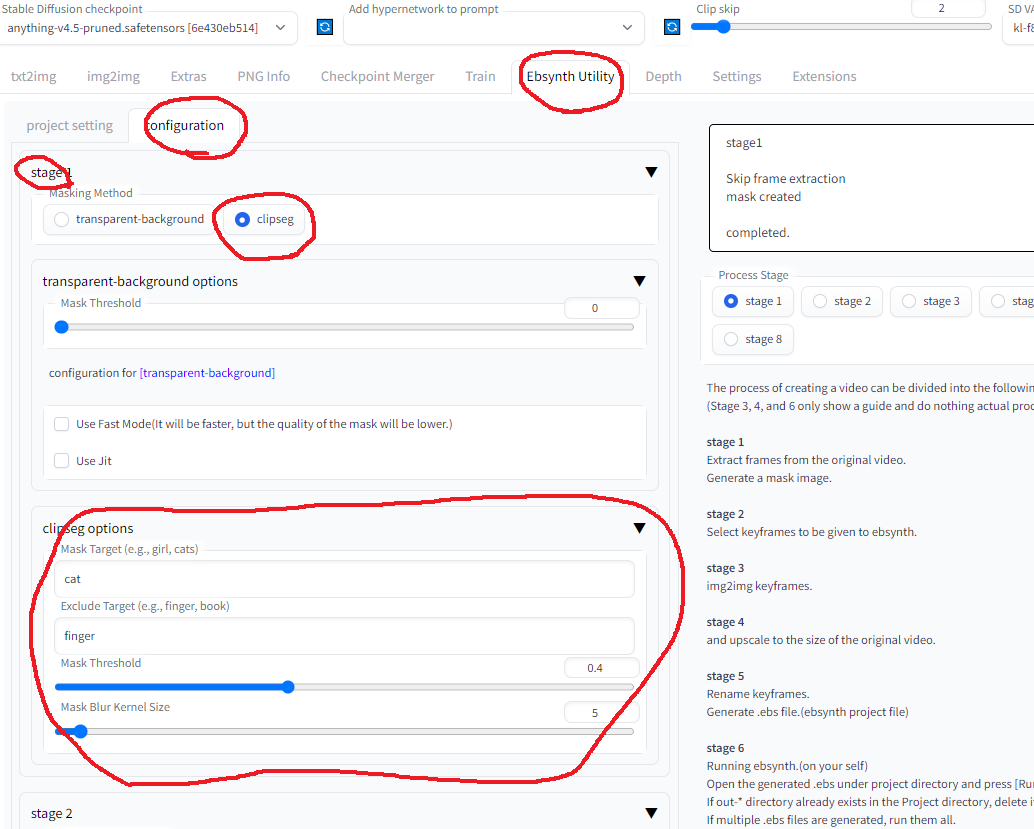
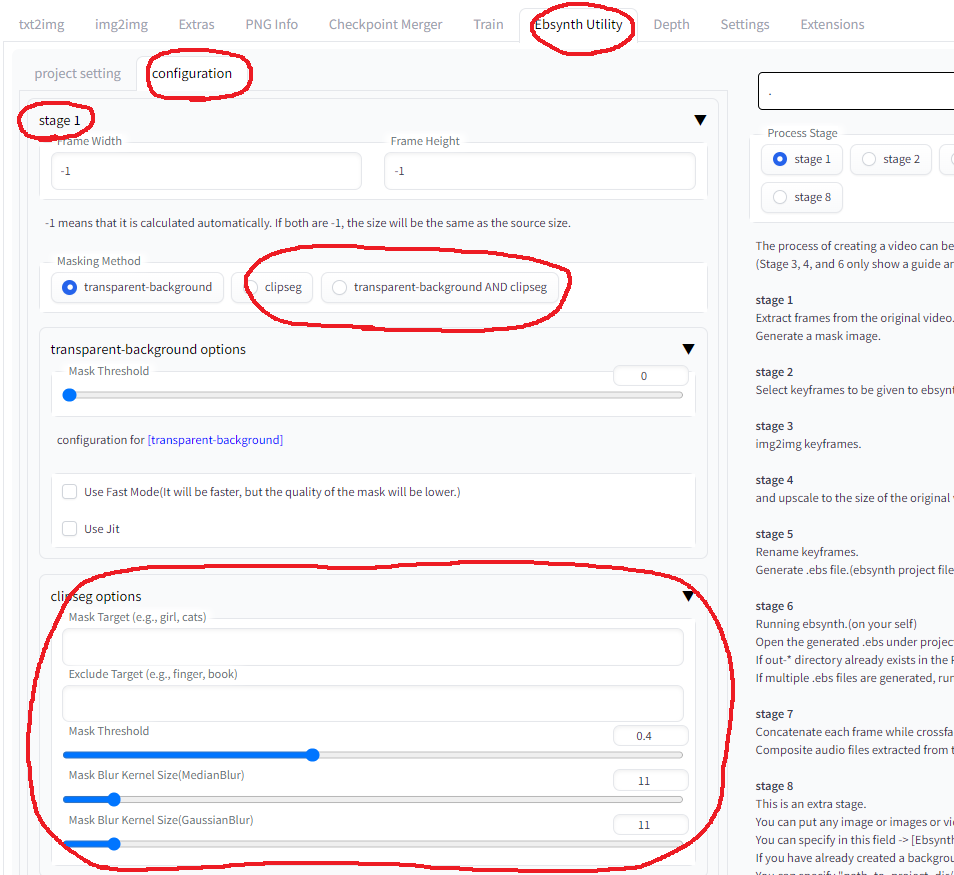
Added a mask method to combine the results of transparent-background and clipseg Improved the edge quality of the clipseg mask Added frame sizing option

diff --git a/stage1.py b/stage1.py
@@ -10,7 +10,6 @@ import torch
 import numpy as np
 
 
-
 def resize_img(img, w, h):
     if img.shape[0] + img.shape[1] < h + w:
         interpolation = interpolation=cv2.INTER_CUBIC
@@ -18,6 +17,29 @@ def resize_img(img, w, h):
         interpolation = interpolation=cv2.INTER_AREA
 
     return cv2.resize(img, (w, h), interpolation=interpolation)
+
+def resize_all_img(path, frame_width, frame_height):
+    if not os.path.isdir(path):
+        return
+    
+    pngs = glob.glob( os.path.join(path, "*.png") )
+    img = cv2.imread(pngs[0])
+    org_h,org_w = img.shape[0],img.shape[1]
+
+    if frame_width == -1 and frame_height == -1:
+        return
+    elif frame_width == -1 and frame_height != -1:
+        frame_width = int(frame_height * org_w / org_h)
+    elif frame_width != -1 and frame_height == -1:
+        frame_height = int(frame_width * org_h / org_w)
+    else:
+        pass
+    print("({0},{1}) resize to ({2},{3})".format(org_w, org_h, frame_width, frame_height))
+
+    for png in pngs:
+        img = cv2.imread(png)
+        img = resize_img(img, frame_width, frame_height)
+        cv2.imwrite(png, img)
 
 def remove_pngs_in_dir(path):
     if not os.path.isdir(path):
@@ -27,7 +49,27 @@ def remove_pngs_in_dir(path):
     for png in pngs:
         os.remove(png)
 
-def create_mask_clipseg(input_dir, output_dir, clipseg_mask_prompt, clipseg_exclude_prompt, clipseg_mask_threshold, mask_blur_size):
+def create_and_mask(mask_dir1, mask_dir2, output_dir):
+    masks = glob.glob( os.path.join(mask_dir1, "*.png") )
+
+    for mask1 in masks:
+        base_name = os.path.basename(mask1)
+        print("combine {0}".format(base_name))
+        
+        mask2 = os.path.join(mask_dir2, base_name)
+        if not os.path.isfile(mask2):
+            print("{0} not found!!! -> skip".format(mask2))
+            continue
+
+        img_1 = cv2.imread(mask1)
+        img_2 = cv2.imread(mask2)
+        img_1 = np.minimum(img_1,img_2)
+
+        out_path = os.path.join(output_dir, base_name)
+        cv2.imwrite(out_path, img_1)
+
+
+def create_mask_clipseg(input_dir, output_dir, clipseg_mask_prompt, clipseg_exclude_prompt, clipseg_mask_threshold, mask_blur_size, mask_blur_size2):
     from modules import devices
 
     devices.torch_gc()
@@ -82,11 +124,16 @@ def create_mask_clipseg(input_dir, output_dir, clipseg_mask_prompt, clipseg_excl
 
         mask_img = mask_img*255
         mask_img = mask_img.astype(np.uint8)
-
-        mask_img = resize_img(mask_img, image.width, image.height)
+        
         if mask_blur_size > 0:
             mask_blur_size = mask_blur_size//2 * 2 + 1
-            mask_img = cv2.GaussianBlur(mask_img, (mask_blur_size, mask_blur_size), 0)
+            mask_img = cv2.medianBlur(mask_img, mask_blur_size)
+
+        if mask_blur_size2 > 0:
+            mask_blur_size2 = mask_blur_size2//2 * 2 + 1
+            mask_img = cv2.GaussianBlur(mask_img, (mask_blur_size2, mask_blur_size2), 0)
+
+        mask_img = resize_img(mask_img, image.width, image.height)
 
         mask_img = cv2.cvtColor(mask_img, cv2.COLOR_GRAY2RGB)
         save_path = os.path.join(output_dir, base_name)
@@ -117,7 +164,7 @@ def create_mask_transparent_background(input_dir, output_dir, tb_use_fast_mode, 
         if m:
             os.rename(mask, os.path.join(output_dir, m.group(1) + ".png"))
 
-def ebsynth_utility_stage1(dbg, project_args, st1_masking_method_index, st1_mask_threshold, tb_use_fast_mode, tb_use_jit, clipseg_mask_prompt, clipseg_exclude_prompt, clipseg_mask_threshold, clipseg_mask_blur_size, is_invert_mask):
+def ebsynth_utility_stage1(dbg, project_args, frame_width, frame_height, st1_masking_method_index, st1_mask_threshold, tb_use_fast_mode, tb_use_jit, clipseg_mask_prompt, clipseg_exclude_prompt, clipseg_mask_threshold, clipseg_mask_blur_size, clipseg_mask_blur_size2, is_invert_mask):
     dbg.print("stage1")
     dbg.print("")
 
@@ -125,7 +172,7 @@ def ebsynth_utility_stage1(dbg, project_args, st1_masking_method_index, st1_mask
         dbg.print("Error: clipseg_mask_prompt is Empty")
         return
 
-    _, original_movie_path, frame_path, frame_mask_path, _, _, _ = project_args
+    project_dir, original_movie_path, frame_path, frame_mask_path, _, _, _ = project_args
 
     if is_invert_mask:
         if os.path.isdir( frame_path ) and os.path.isdir( frame_mask_path ):
@@ -151,11 +198,26 @@ def ebsynth_utility_stage1(dbg, project_args, st1_masking_method_index, st1_mask
 
         dbg.print("frame extracted")
 
+        frame_width = max(frame_width,-1)
+        frame_height = max(frame_height,-1)
+
+        if frame_width != -1 or frame_height != -1:
+            resize_all_img(frame_path, frame_width, frame_height)
+
     if frame_mask_path:
         if st1_masking_method_index == 0:
             create_mask_transparent_background(frame_path, frame_mask_path, tb_use_fast_mode, tb_use_jit, st1_mask_threshold)
         elif st1_masking_method_index == 1:
-            create_mask_clipseg(frame_path, frame_mask_path, clipseg_mask_prompt, clipseg_exclude_prompt, clipseg_mask_threshold, clipseg_mask_blur_size)
+            create_mask_clipseg(frame_path, frame_mask_path, clipseg_mask_prompt, clipseg_exclude_prompt, clipseg_mask_threshold, clipseg_mask_blur_size, clipseg_mask_blur_size2)
+        elif st1_masking_method_index == 2:
+            tb_tmp_path = os.path.join(project_dir , "tb_mask_tmp")
+            if not os.path.isdir( tb_tmp_path ):
+                os.makedirs(tb_tmp_path, exist_ok=True)
+                create_mask_transparent_background(frame_path, tb_tmp_path, tb_use_fast_mode, tb_use_jit, st1_mask_threshold)
+            create_mask_clipseg(frame_path, frame_mask_path, clipseg_mask_prompt, clipseg_exclude_prompt, clipseg_mask_threshold, clipseg_mask_blur_size, clipseg_mask_blur_size2)
+            create_and_mask(tb_tmp_path,frame_mask_path,frame_mask_path)
+
+
         dbg.print("mask created")
     
     dbg.print("")

diff --git a/scripts/ui.py b/scripts/ui.py
@@ -18,7 +18,15 @@ def on_ui_tabs():
                             original_movie_path = gr.Textbox(label='Original Movie Path', lines=1)
                         with gr.TabItem('configuration', id='ebs_configuration'):
                             with gr.Accordion(label="stage 1"):
-                                st1_masking_method_index = gr.Radio(label='Masking Method', choices=["transparent-background","clipseg"], value="transparent-background", type="index")
+
+                                with gr.Row():
+                                    frame_width = gr.Number(value=-1, label="Frame Width", precision=0, interactive=True)
+                                    frame_height = gr.Number(value=-1, label="Frame Height", precision=0, interactive=True)
+                                gr.HTML(value="<p style='margin-bottom: 1.2em'>\
+                                        -1 means that it is calculated automatically. If both are -1, the size will be the same as the source size. \
+                                        </p>")
+
+                                st1_masking_method_index = gr.Radio(label='Masking Method', choices=["transparent-background","clipseg","transparent-background AND clipseg"], value="transparent-background", type="index")
 
                                 with gr.Accordion(label="transparent-background options"):
                                     st1_mask_threshold = gr.Slider(minimum=0.0, maximum=1.0, step=0.01, label='Mask Threshold', value=0.0)
@@ -35,7 +43,8 @@ def on_ui_tabs():
                                     clipseg_mask_prompt = gr.Textbox(label='Mask Target (e.g., girl, cats)', lines=1)
                                     clipseg_exclude_prompt = gr.Textbox(label='Exclude Target (e.g., finger, book)', lines=1)
                                     clipseg_mask_threshold = gr.Slider(minimum=0.0, maximum=1.0, step=0.01, label='Mask Threshold', value=0.4)
-                                    clipseg_mask_blur_size = gr.Slider(minimum=0, maximum=150, step=1, label='Mask Blur Kernel Size', value=30)
+                                    clipseg_mask_blur_size = gr.Slider(minimum=0, maximum=150, step=1, label='Mask Blur Kernel Size(MedianBlur)', value=11)
+                                    clipseg_mask_blur_size2 = gr.Slider(minimum=0, maximum=150, step=1, label='Mask Blur Kernel Size(GaussianBlur)', value=11)
 
                             with gr.Accordion(label="stage 2"):
                                 key_min_gap = gr.Slider(minimum=0, maximum=500, step=1, label='Minimum keyframe gap', value=10)
@@ -111,6 +120,8 @@ def on_ui_tabs():
                     project_dir,
                     original_movie_path,
 
+                    frame_width,
+                    frame_height,
                     st1_masking_method_index,
                     st1_mask_threshold,
                     tb_use_fast_mode,
@@ -119,6 +130,7 @@ def on_ui_tabs():
                     clipseg_exclude_prompt,
                     clipseg_mask_threshold,
                     clipseg_mask_blur_size,
+                    clipseg_mask_blur_size2,
 
                     key_min_gap,
                     key_max_gap,

diff --git a/ebsynth_utility.py b/ebsynth_utility.py
@@ -28,7 +28,7 @@ class debug_string:
     def to_string(self):
         return self.txt
 
-def ebsynth_utility_process(stage_index: int, project_dir:str, original_movie_path:str, st1_masking_method_index:int, st1_mask_threshold:float, tb_use_fast_mode:bool, tb_use_jit:bool, clipseg_mask_prompt:str, clipseg_exclude_prompt:str, clipseg_mask_threshold:int, clipseg_mask_blur_size:int, key_min_gap:int, key_max_gap:int, key_th:float, key_add_last_frame:bool, blend_rate:float, export_type:str, bg_src:str, bg_type:str, mask_blur_size:int, mask_threshold:float, fg_transparency:float, mask_mode:str):
+def ebsynth_utility_process(stage_index: int, project_dir:str, original_movie_path:str, frame_width:int, frame_height:int, st1_masking_method_index:int, st1_mask_threshold:float, tb_use_fast_mode:bool, tb_use_jit:bool, clipseg_mask_prompt:str, clipseg_exclude_prompt:str, clipseg_mask_threshold:int, clipseg_mask_blur_size:int, clipseg_mask_blur_size2:int, key_min_gap:int, key_max_gap:int, key_th:float, key_add_last_frame:bool, blend_rate:float, export_type:str, bg_src:str, bg_type:str, mask_blur_size:int, mask_threshold:float, fg_transparency:float, mask_mode:str):
     args = locals()
     info = ""
     info = dump_dict(info, args)
@@ -74,7 +74,7 @@ def ebsynth_utility_process(stage_index: int, project_dir:str, original_movie_pa
 
 
     if stage_index == 0:
-        ebsynth_utility_stage1(dbg, project_args, st1_masking_method_index, st1_mask_threshold, tb_use_fast_mode, tb_use_jit, clipseg_mask_prompt, clipseg_exclude_prompt, clipseg_mask_threshold, clipseg_mask_blur_size, is_invert_mask)
+        ebsynth_utility_stage1(dbg, project_args, frame_width, frame_height, st1_masking_method_index, st1_mask_threshold, tb_use_fast_mode, tb_use_jit, clipseg_mask_prompt, clipseg_exclude_prompt, clipseg_mask_threshold, clipseg_mask_blur_size, clipseg_mask_blur_size2, is_invert_mask)
         if is_invert_mask:
             inv_mask_path = os.path.join(inv_path, "inv_video_mask")
             ebsynth_utility_stage1_invert(dbg, frame_mask_path, inv_mask_path)
